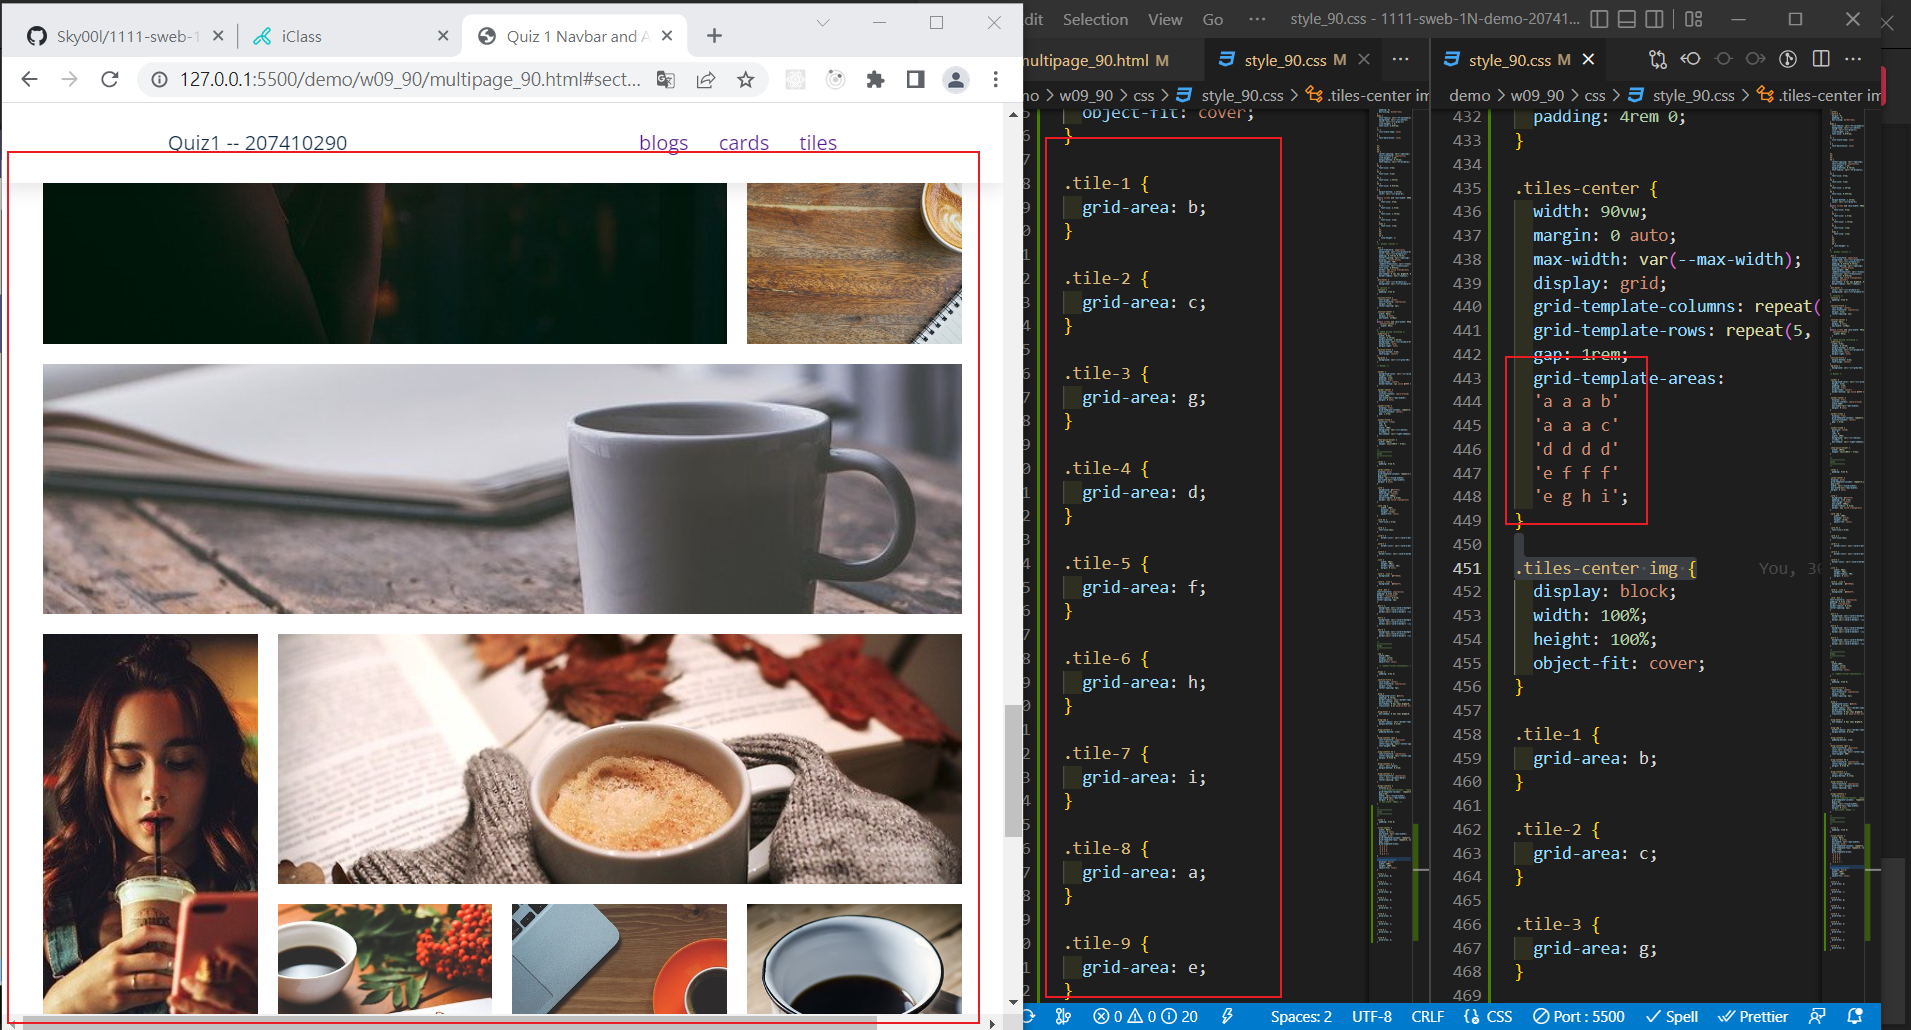
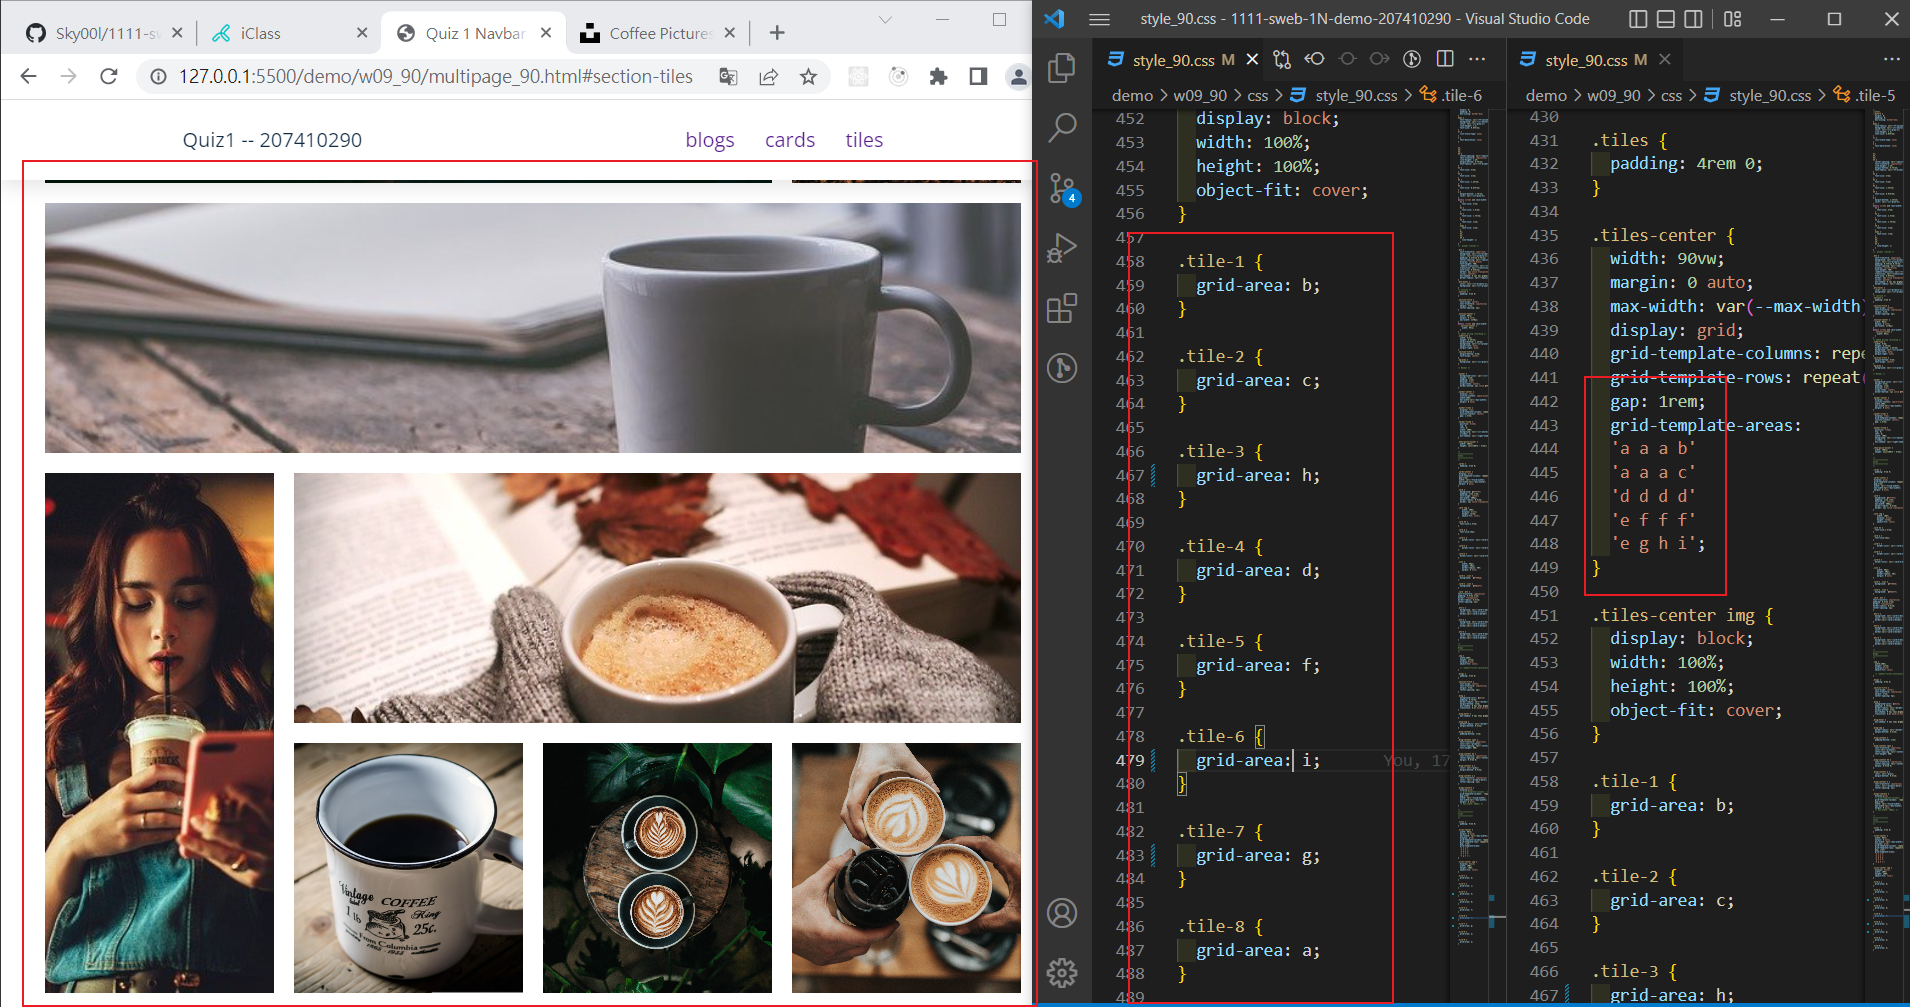
w09-P3: Resume, show resume-left and resume-right with ratio 30:70

diff --git a/demo/w09_90/css/style_90.css b/demo/w09_90/css/style_90.css
@@ -464,7 +464,7 @@ Tiles
 }
 
 .tile-3 {
-  grid-area: g;
+  grid-area: h;
 }
 
 .tile-4 {
@@ -476,11 +476,11 @@ Tiles
 }
 
 .tile-6 {
-  grid-area: h;
+  grid-area: i;
 }
 
 .tile-7 {
-  grid-area: i;
+  grid-area: g;
 }
 
 .tile-8 {
@@ -489,4 +489,28 @@ Tiles
 
 .tile-9 {
   grid-area: e;
+}
+
+/*
+=============== 
+Resume
+===============
+*/
+
+.main-resume-section {
+  min-height: 100vh;
+  width: 80vw;
+  margin: 2rem auto;
+  display: grid;
+  grid-template-columns: 30fr 70fr;
+}
+
+.resume-left {
+  background-color: rgb(0, 50, 74);
+  height: 100%;
+}
+
+.resume-right {
+  background-color: rgb(135, 204, 236);
+  height: 100%;
 }

diff --git a/demo/w09_90/resume_90.html b/demo/w09_90/resume_90.html
@@ -1,0 +1,16 @@
+<!DOCTYPE html>
+<html lang="en">
+  <head>
+    <meta charset="UTF-8" />
+    <meta http-equiv="X-UA-Compatible" content="IE=edge" />
+    <meta name="viewport" content="width=device-width, initial-scale=1.0" />
+    <title>My Resume</title>
+    <link rel="stylesheet" href="./css/style_90.css" />
+  </head>
+  <body>
+    <section class="main-resume-section">
+      <div class="resume-left"></div>
+      <div class="resume-right"></div>
+    </section>
+  </body>
+</html>

diff --git a/demo/w09_90/multipage_90.html b/demo/w09_90/multipage_90.html
@@ -25,6 +25,10 @@
             <a href="#section-tiles">tiles</a>
           </li>
         </ul>
+        <ul class="navbar-links">
+          <li><a href="../../demo_90.html">demo</a></li>
+          <li><a href="../w09_90/resume_90.html">resume</a></li>
+        </ul>
       </div>
     </nav>
 

diff --git a/demo/md/w09_90/w09_90.md b/demo/md/w09_90/w09_90.md
@@ -10,11 +10,9 @@
 
 ![](w09-p2.png)
 
-### w08-P3: define css variables for .btn-1, .btn-2, .btn3
+### w09-P3: Resume, show resume-left and resume-right with ratio 30:70
 
-![](w08-p3-1.png)
-
-![](w08-p3-2.png)
+![](w09-p3.png)
 
 ### W08-logs: W8 all logs
 
